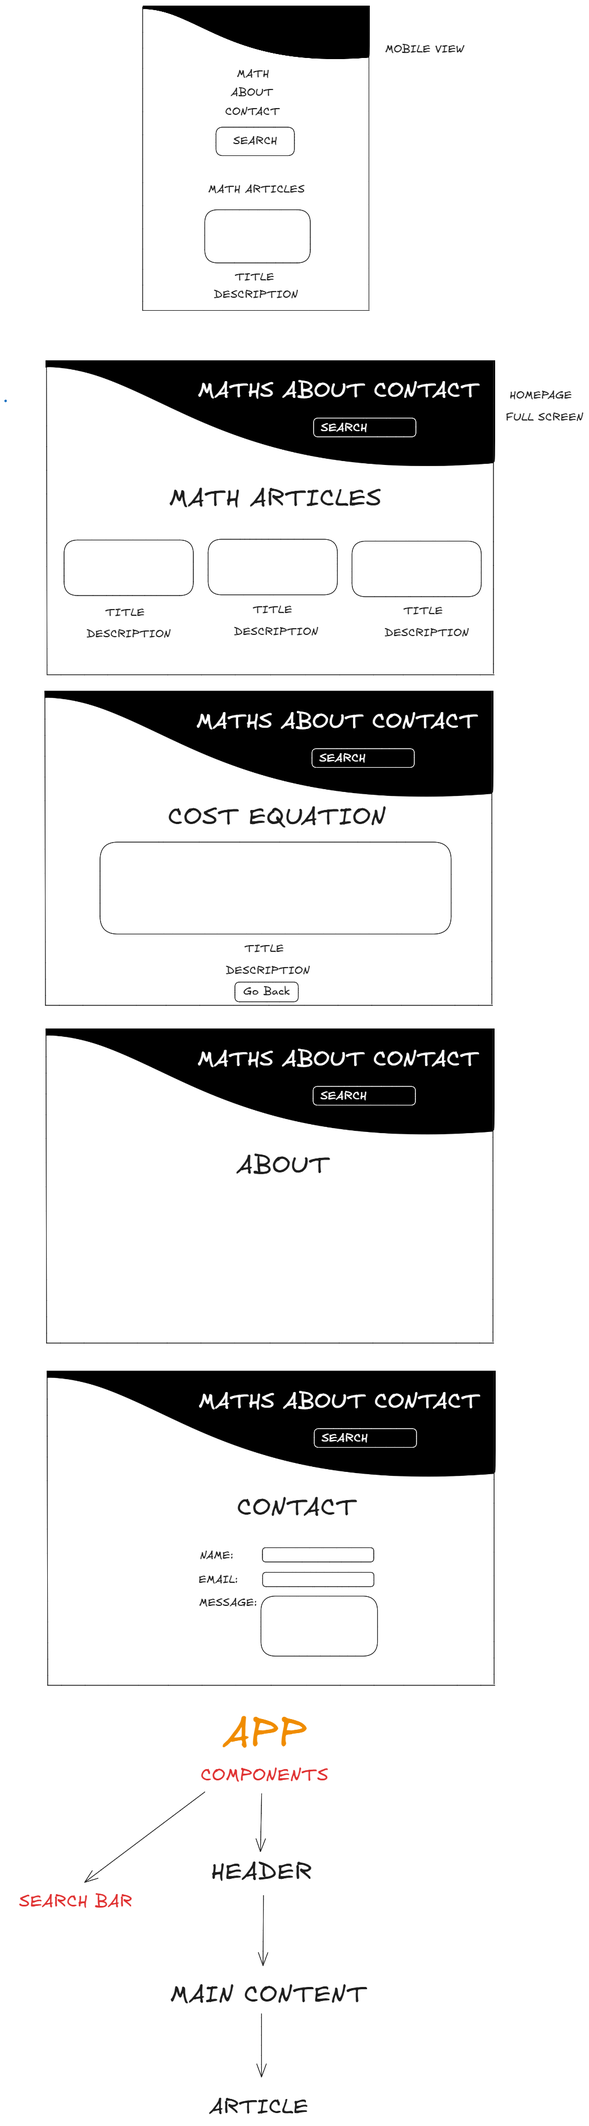
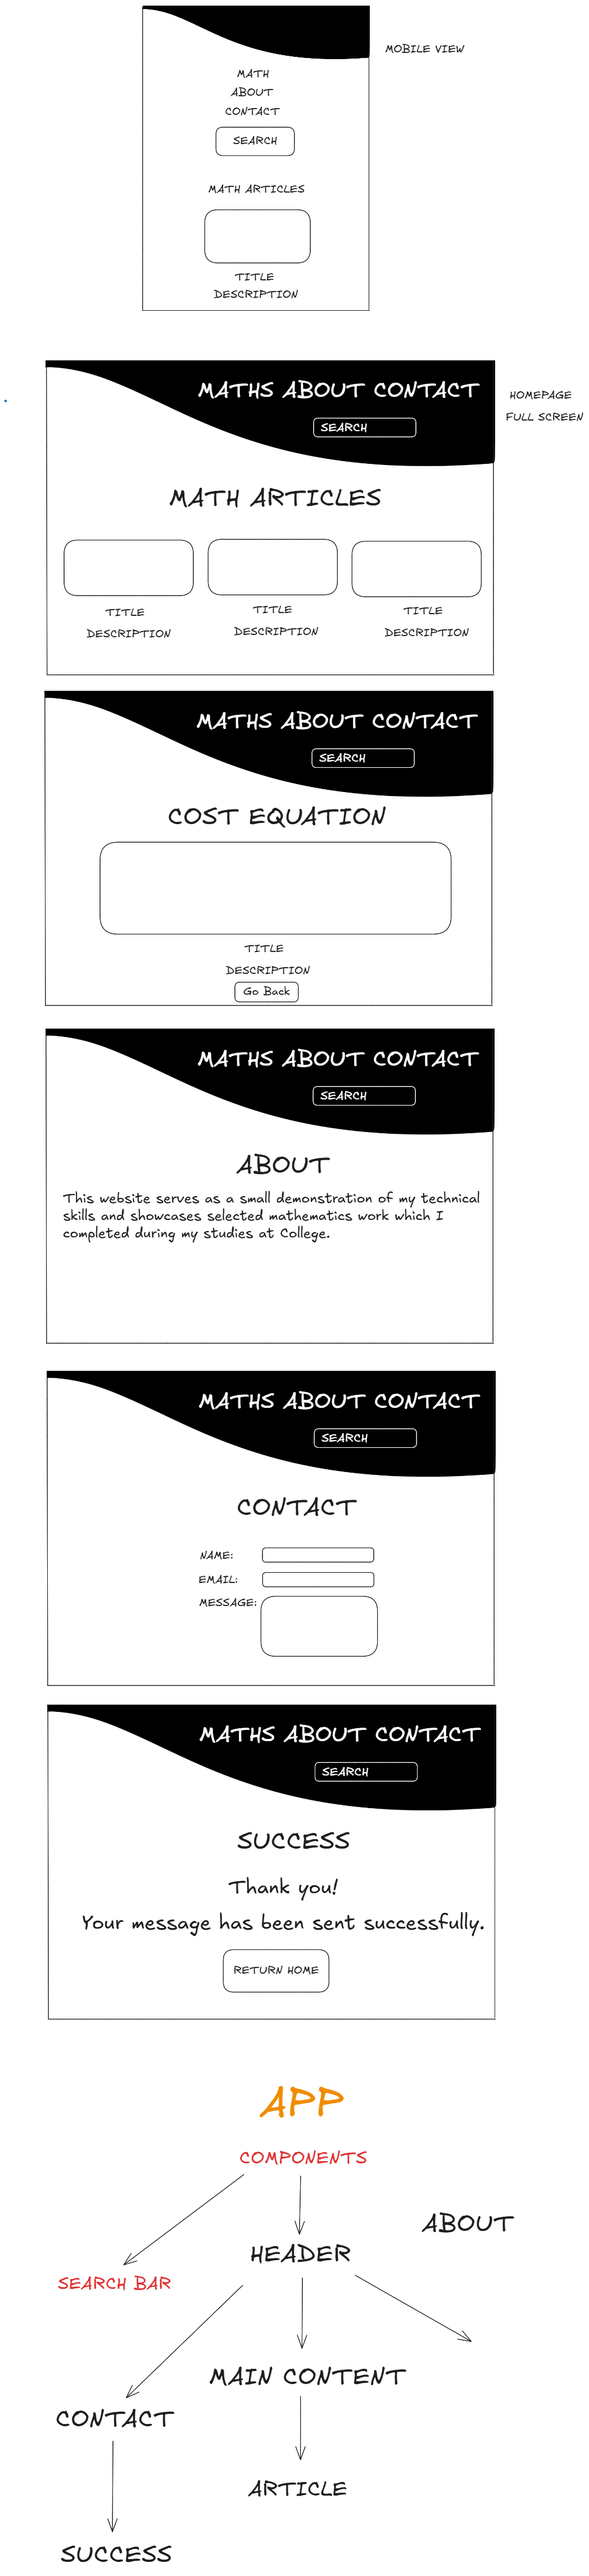
updated success page

diff --git a/src/Components/Success.jsx b/src/Components/Success.jsx
@@ -1,8 +1,15 @@
+import { useNavigate } from "react-router-dom";
 export default function Success() {
+  const navigate = useNavigate();
     return (
           <div>
             <div className="article_title">Thank you!</div>
             <p>Your message has been sent successfully.</p>
+            <div>
+             <button onClick={() => navigate("/")}>
+            Return Home
+          </button>
+            </div>
           </div>
 
     )

diff --git a/index.html b/index.html
@@ -2,7 +2,7 @@
 <html lang="en">
   <head>
     <meta charset="UTF-8" />
-    <link rel="icon" type="image/svg+xml" href="/vite.svg" />
+    <link rel="icon" type="image/svg+xml" href="./src/assets/img/math-icon.png" />
     <meta name="viewport" content="width=device-width, initial-scale=1.0" />
     <title>maths_project</title>
   </head>
